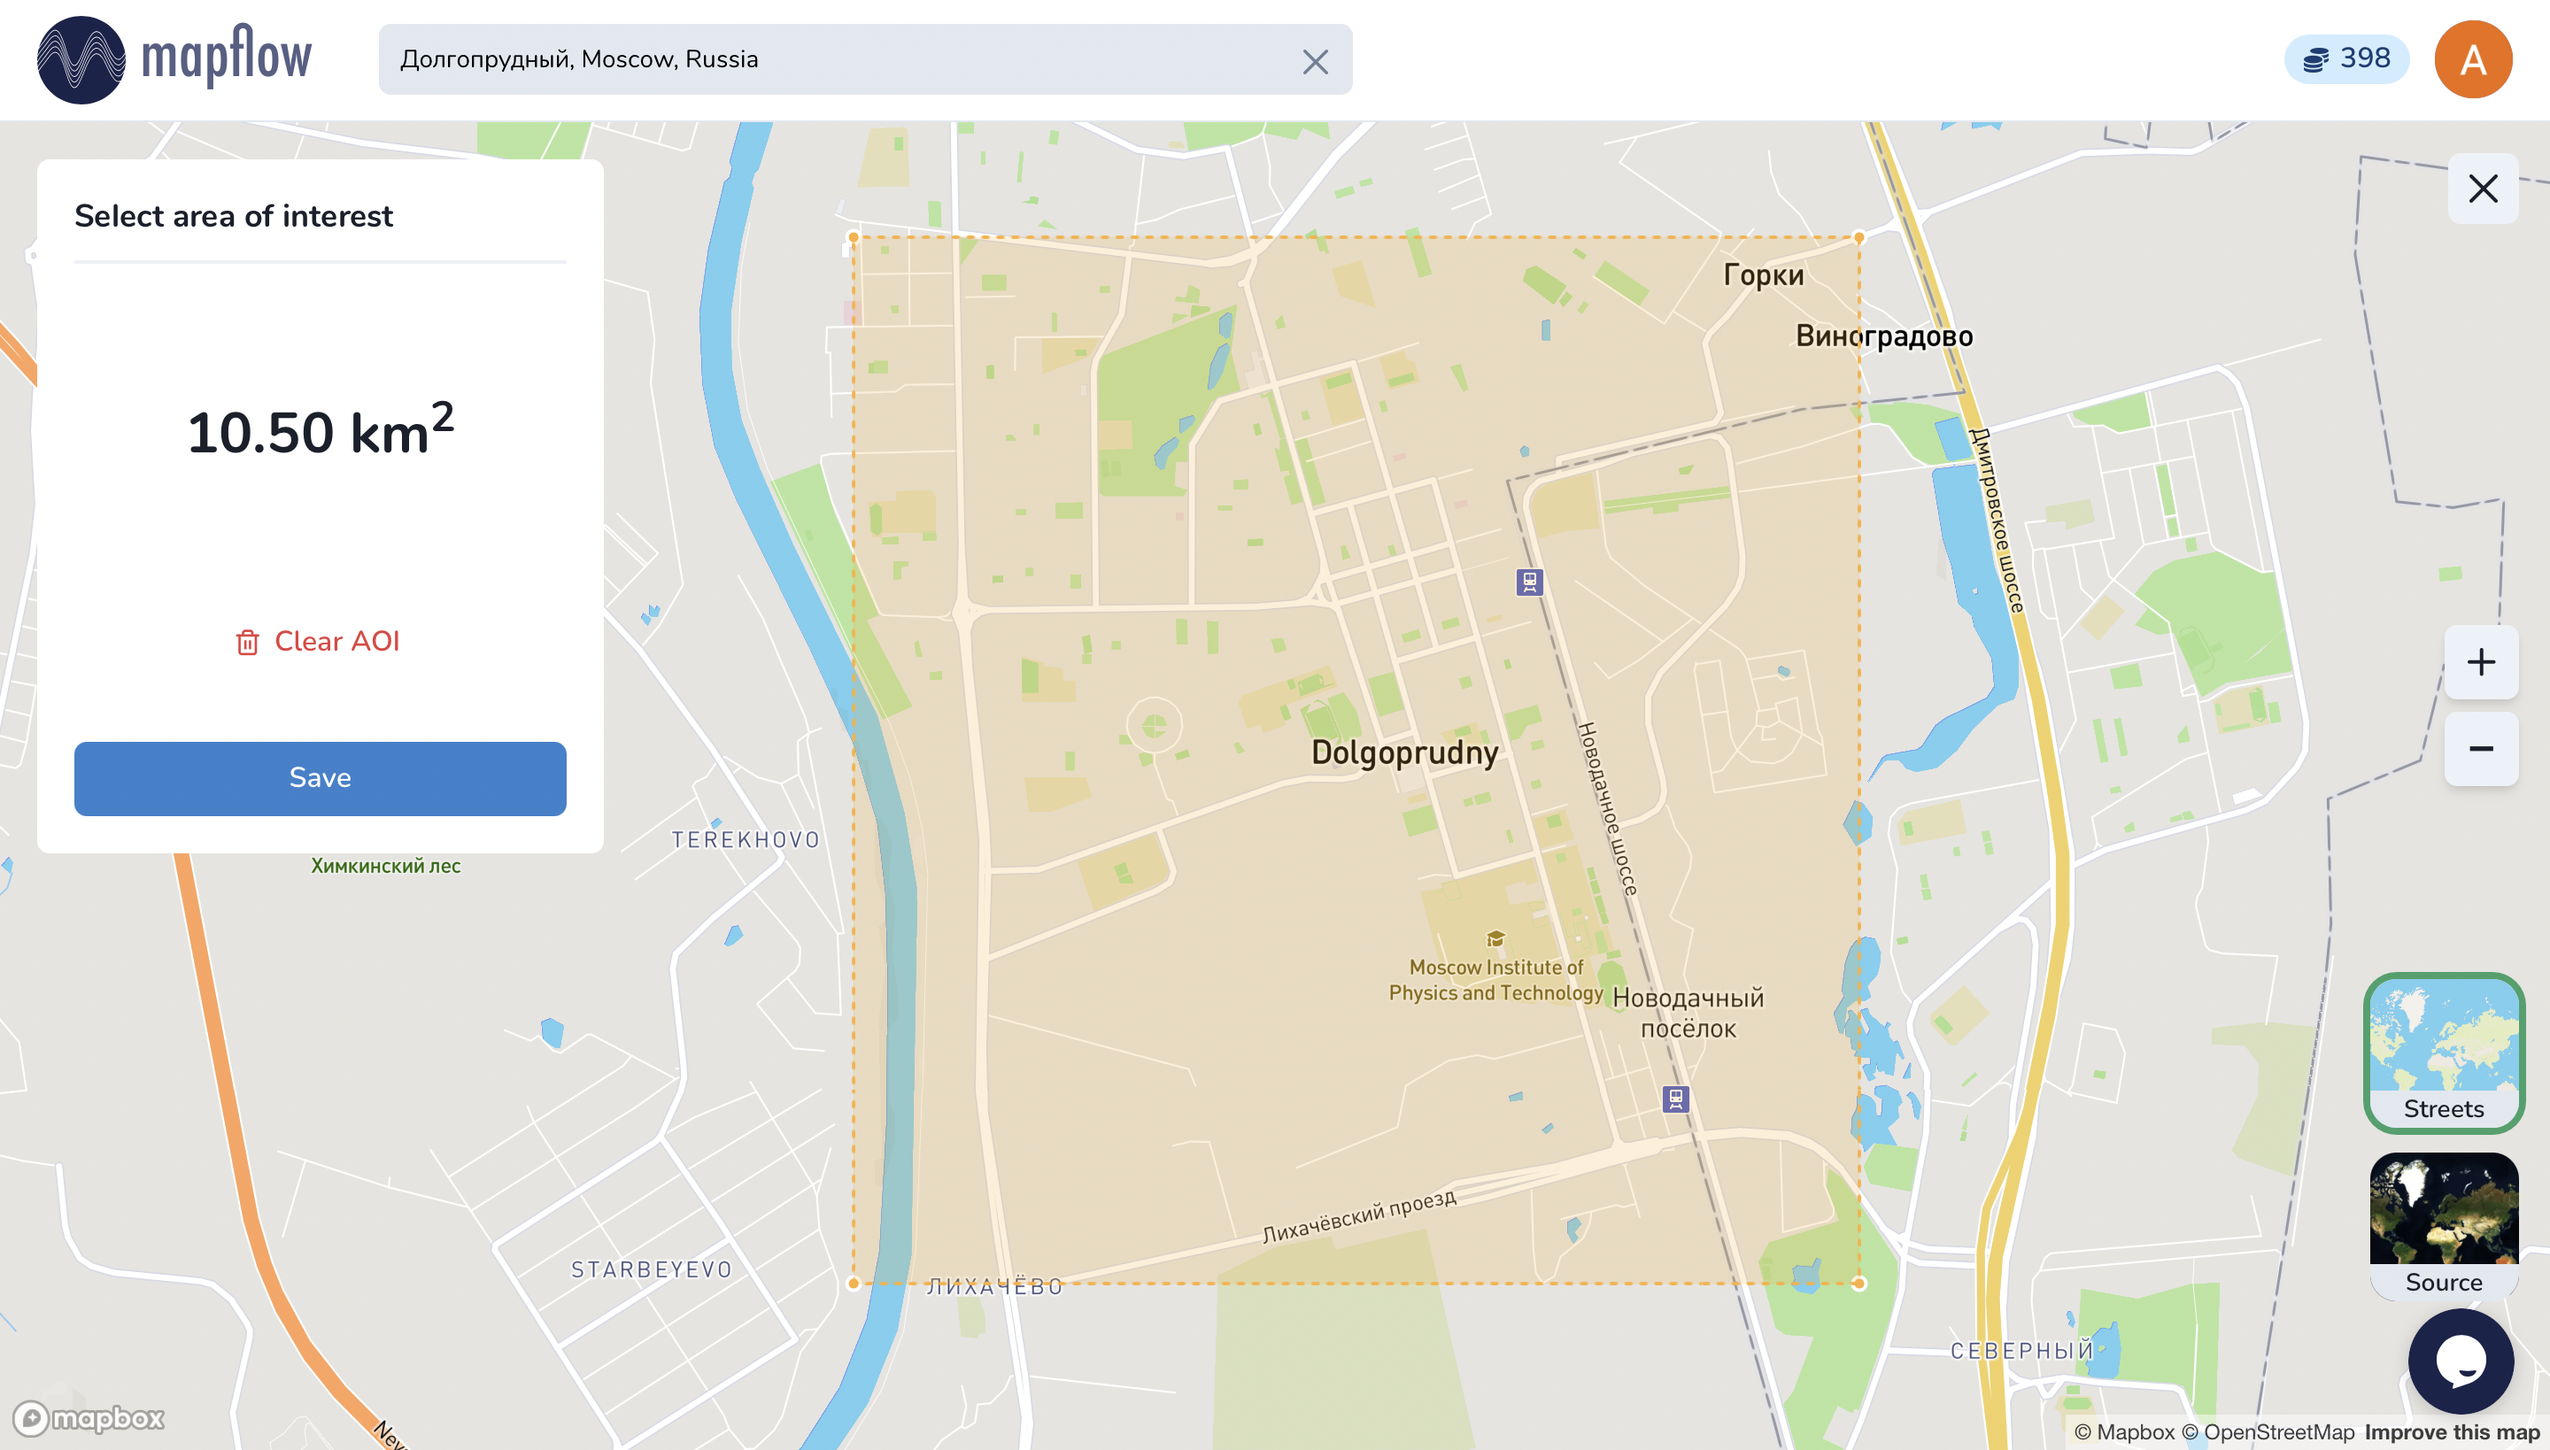
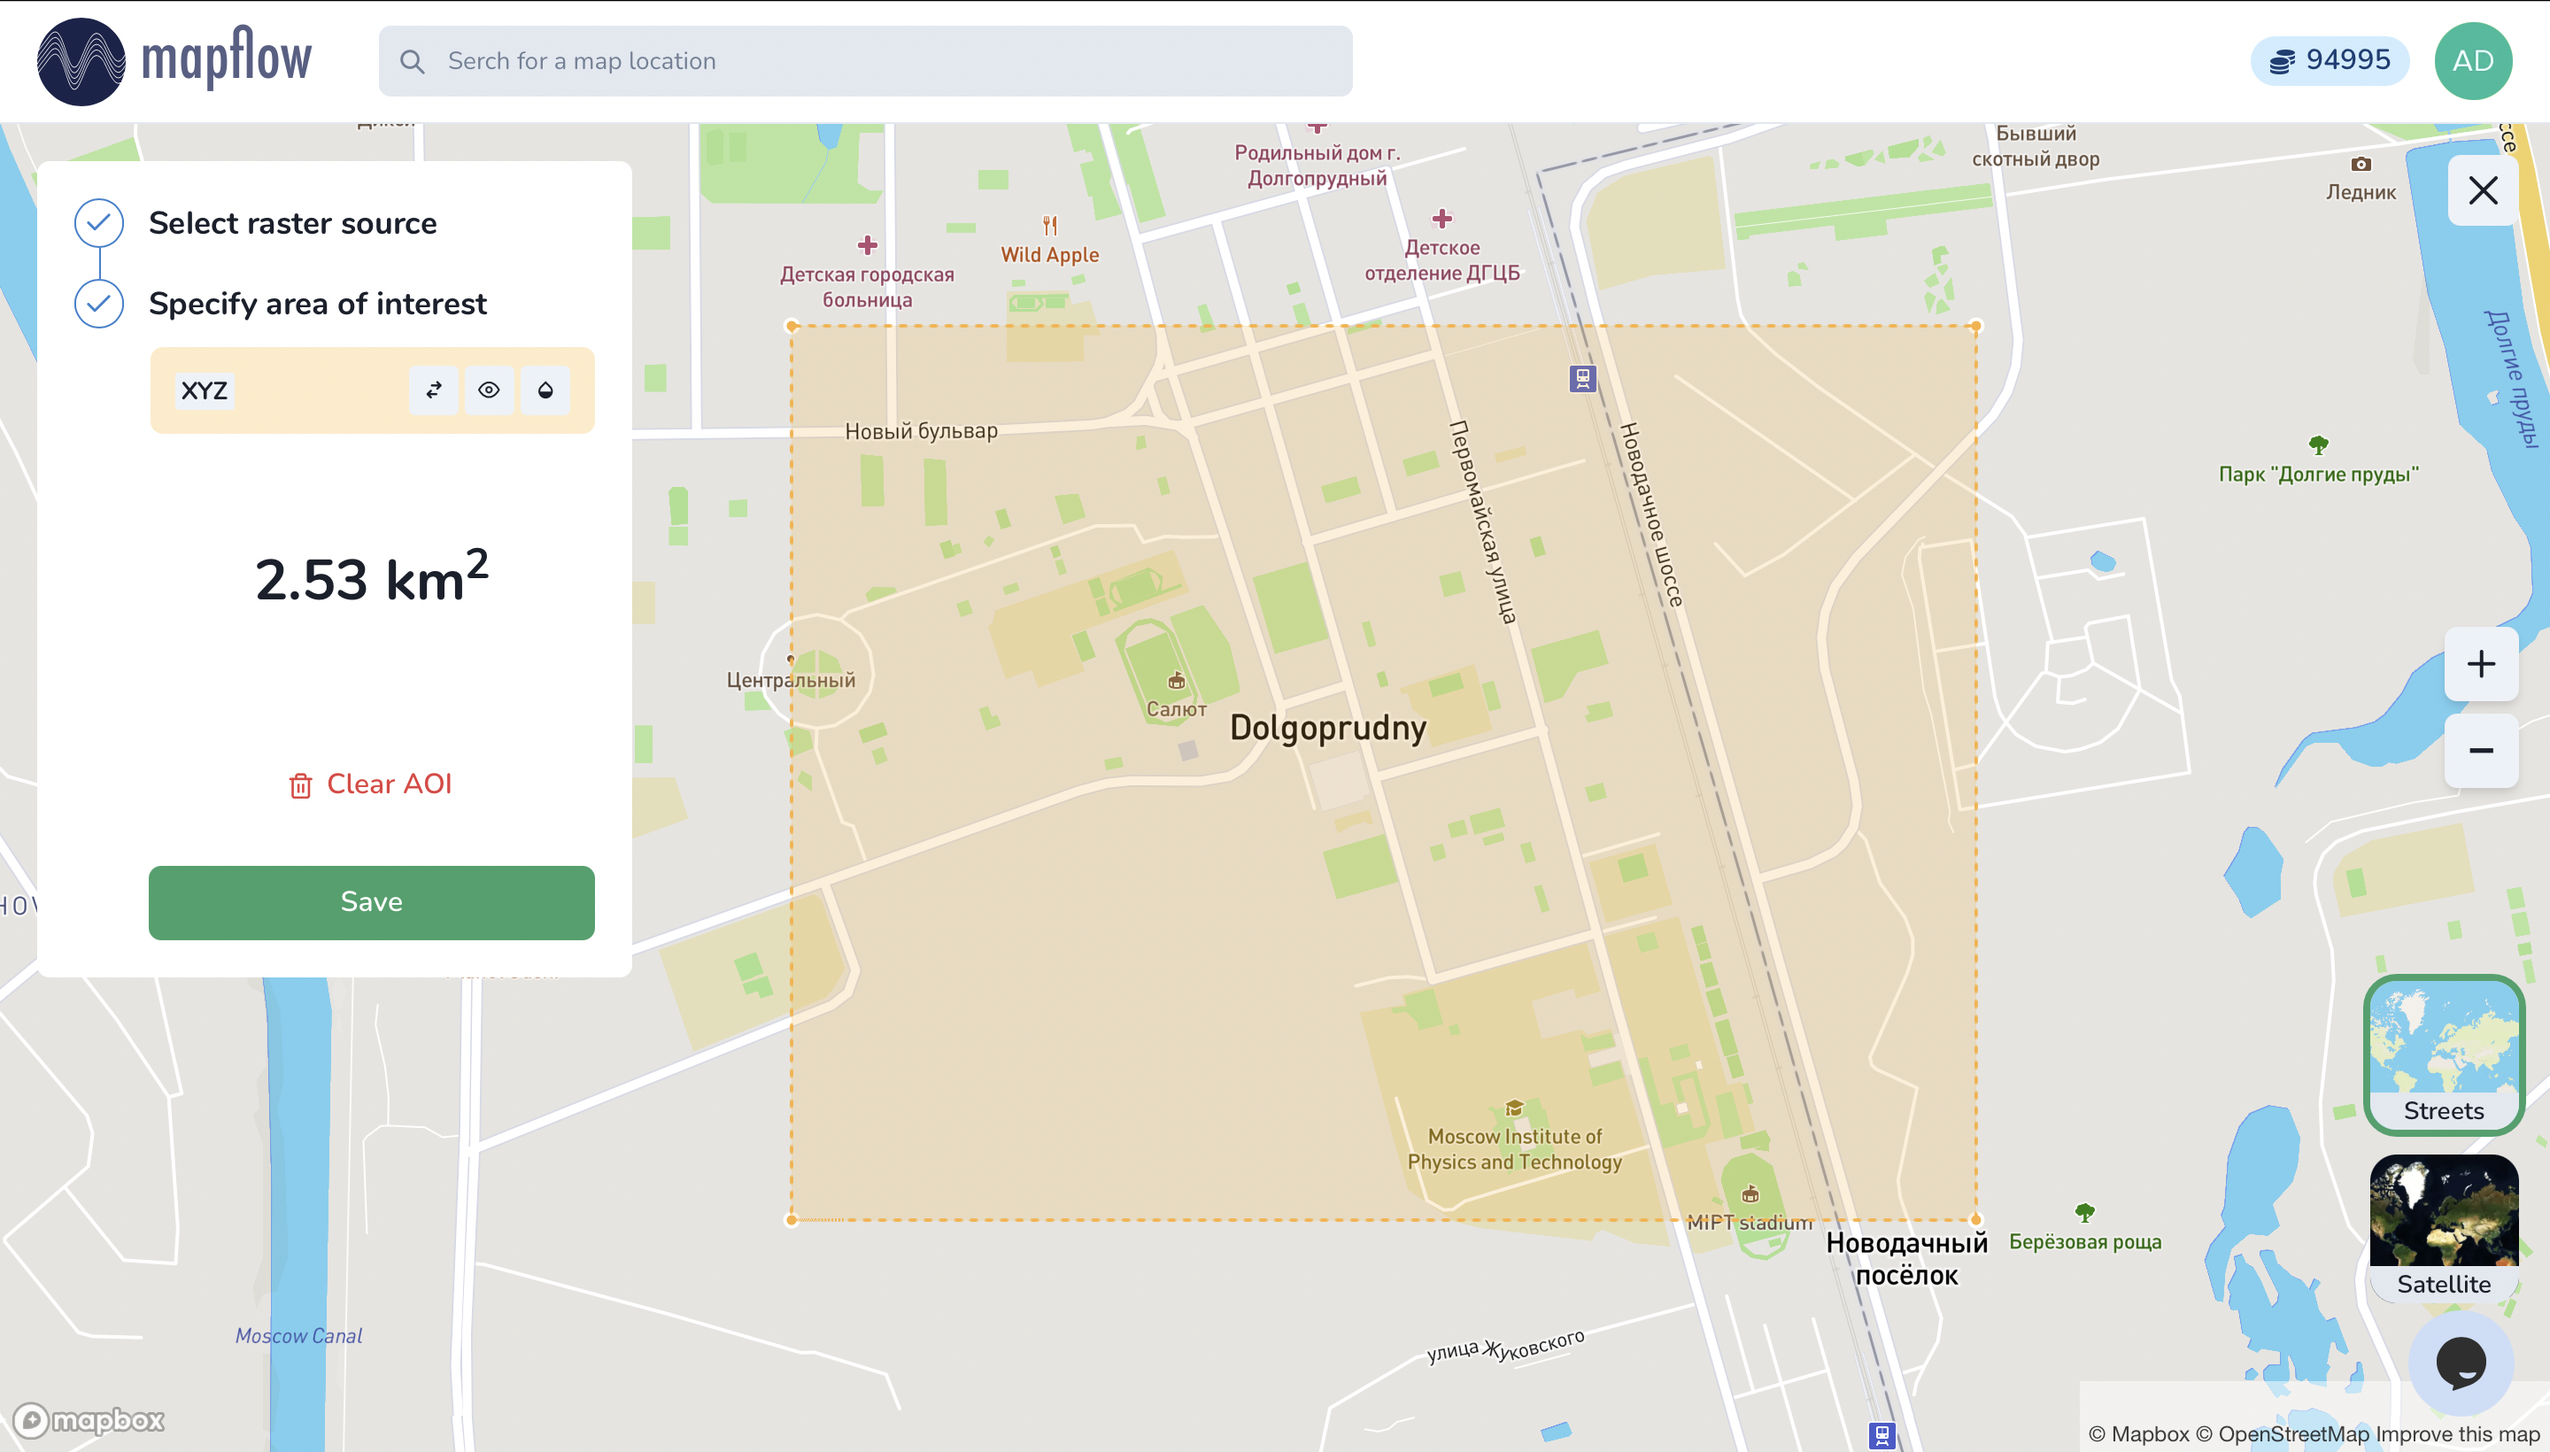
Update description data source

diff --git a/docs_userguides/get_started.rst b/docs_userguides/get_started.rst
@@ -17,18 +17,41 @@ Mapflow is designed to be intuitive. Here is our step-by-step user guide:
 
 1. Data source
 
- To specify your area of interest (AOI), you can either upload your own `GeoJSON <https://geojson.org>`_ file, or draw the area directly on the map ("Draw rectangle").
+  1.1. Select raster source
+
+    -Default
+
+    Mapflow uses `Mapbox Satellite <https://mapbox.com/maps/satellite>`_ imagery by default. To specify your area of interest (AOI), you can either upload your own `GeoJSON <https://geojson.org>`_ file, or draw the area directly on the map ("Draw rectangle").
  
+    -URL
+
+    You can use the satellite imagery data source that you need, specify its URL on this tab.  Besides select XYZ or TMS presentation formats by changing the position of the *Y origin top* slider. The choice of the required projection and zoom is also available. (What image zoom is required for high-quality processing in Mapflow can be seen on the page: doc: `Description of models <pipelines>`_).
+
+
+  .. figure:: _static/select_raster_source.png
+    :alt: UI Mapflow – select source
+    :align: center
+    :width: 7cm
+    
+
+  1.2. Specify area of interest
+
+  This tab displays the type of data source, as well as buttons:
+
+  - replce selected source;
+  - toggle source layer visibility;
+  - change source layer opacity;
+
   .. figure:: _static/ui_map_select_source.png
-    :alt: UI Mapflow – define AOI
+    :alt: UI Mapflow – select source
     :align: center
     :width: 15cm
-    
+
  .. attention:: 
    Be aware that for now, only a single area can be drawn or uploaded per flow. If your GeoJSON file has multiple areas within its FeatureCollection, only the first one will be used. If you want to process multiple AOIs, you can split them into separate GeoJSON files and start a flow for each one separately. Batch processing may become available in the future releases. Other spatial data formats may also become available for upload in the future, although we recommend using GeoJSON since it is a de-facto standard in web mapping. It is natively supported by web mapping frameworks  (e.g. `Leaflet <https://leafletjs.com/>`_ or `Mapbox <https://docs.mapbox.com/mapbox.js/>`_) and GIS like `QGIS <https://qgis.org/>`_ or the ArcGIS Suite.
  
  .. important:: 
-   As to the source data, currently we only support RGB imagery. By default, Mapflow uses `Mapbox Satellite <https://mapbox.com/maps/satellite>`_ imagery. Currently, this is the only available source when using the web app. If you would like to upload your own GeoTIFF or choose another satellite imagery mosaic as a service, you can use :doc:`../docs_api/processing_api`. 
+   As to the source data, currently we only support RGB imagery. If you would like to upload your own GeoTIFF you can use `Geoalert API <https://ru.docs.mapflow.ai/docs_api/processing_api.html>`_ or our `Mpflow plugin <https://ru.docs.mapflow.ai/docs_api/qgis_mapflow.html>`_ for QGIS . 
 
 2. AI model
 
